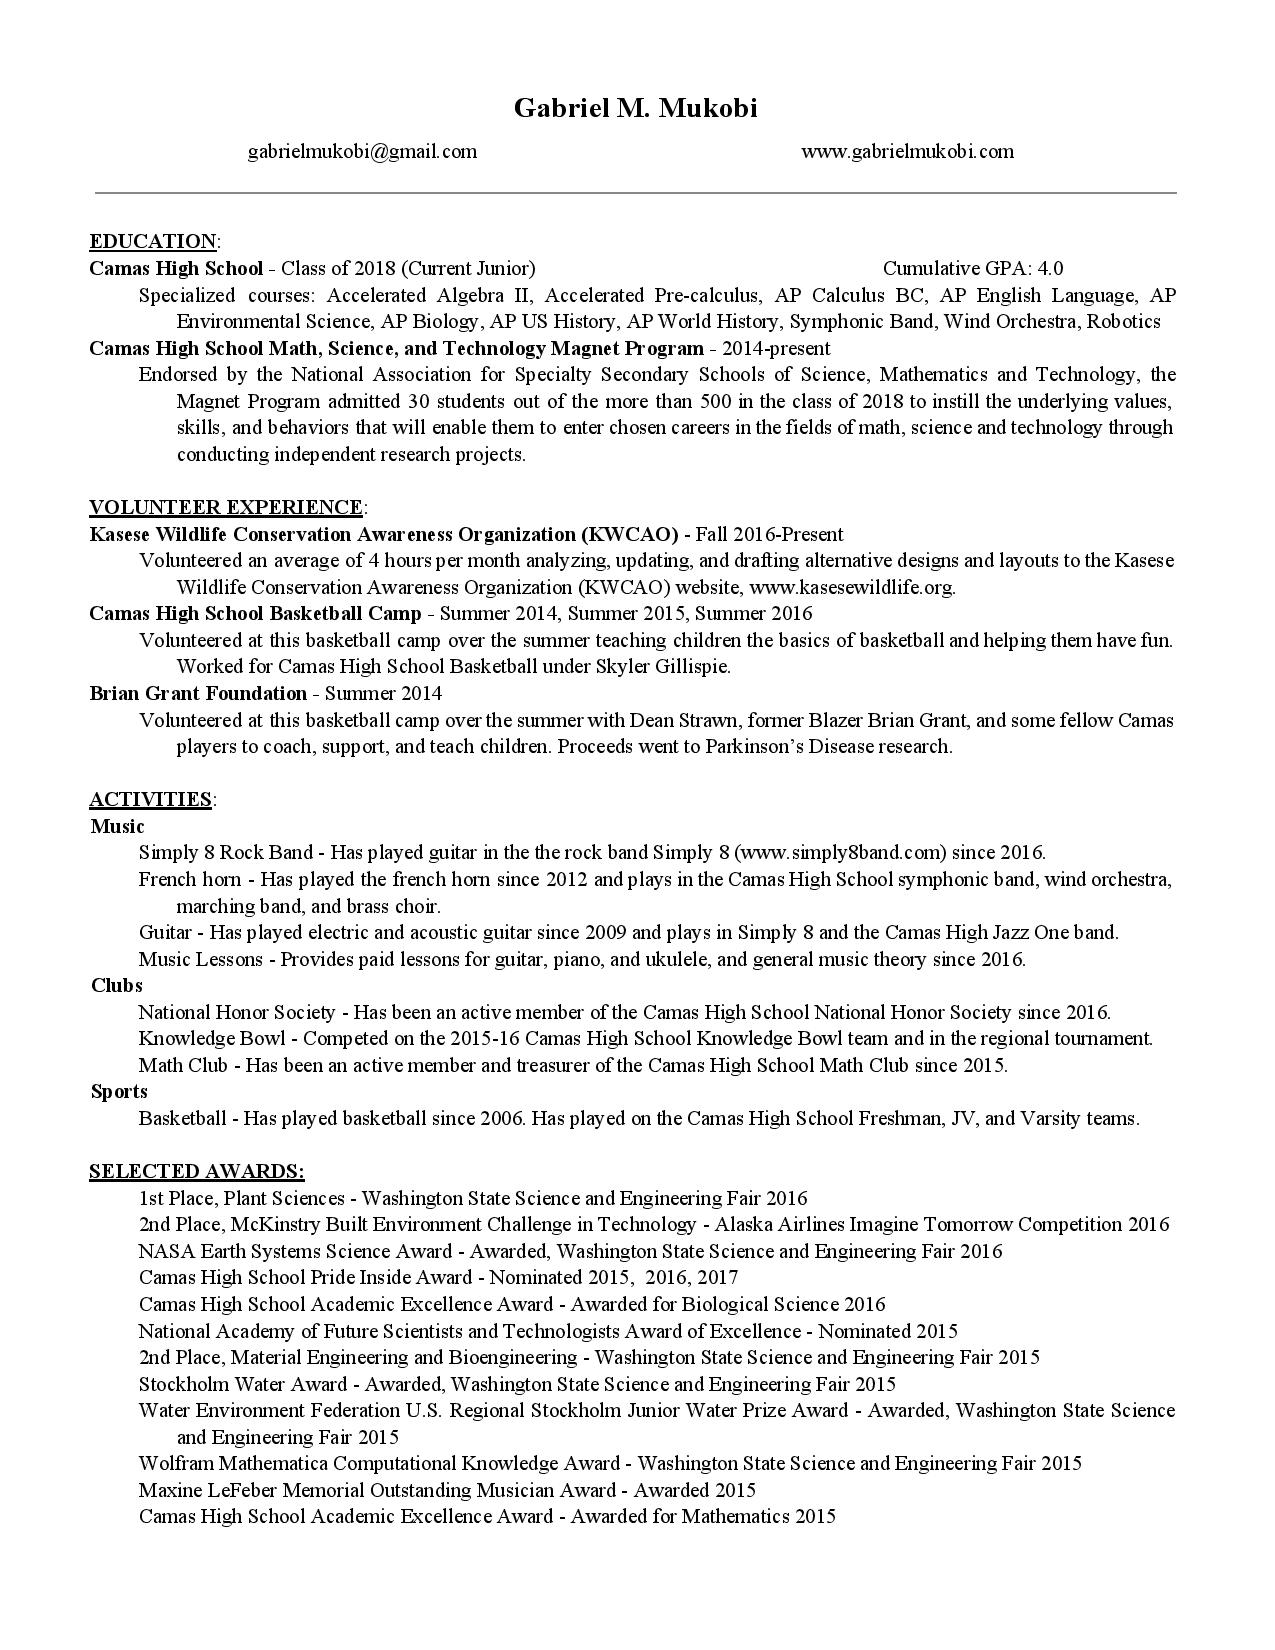
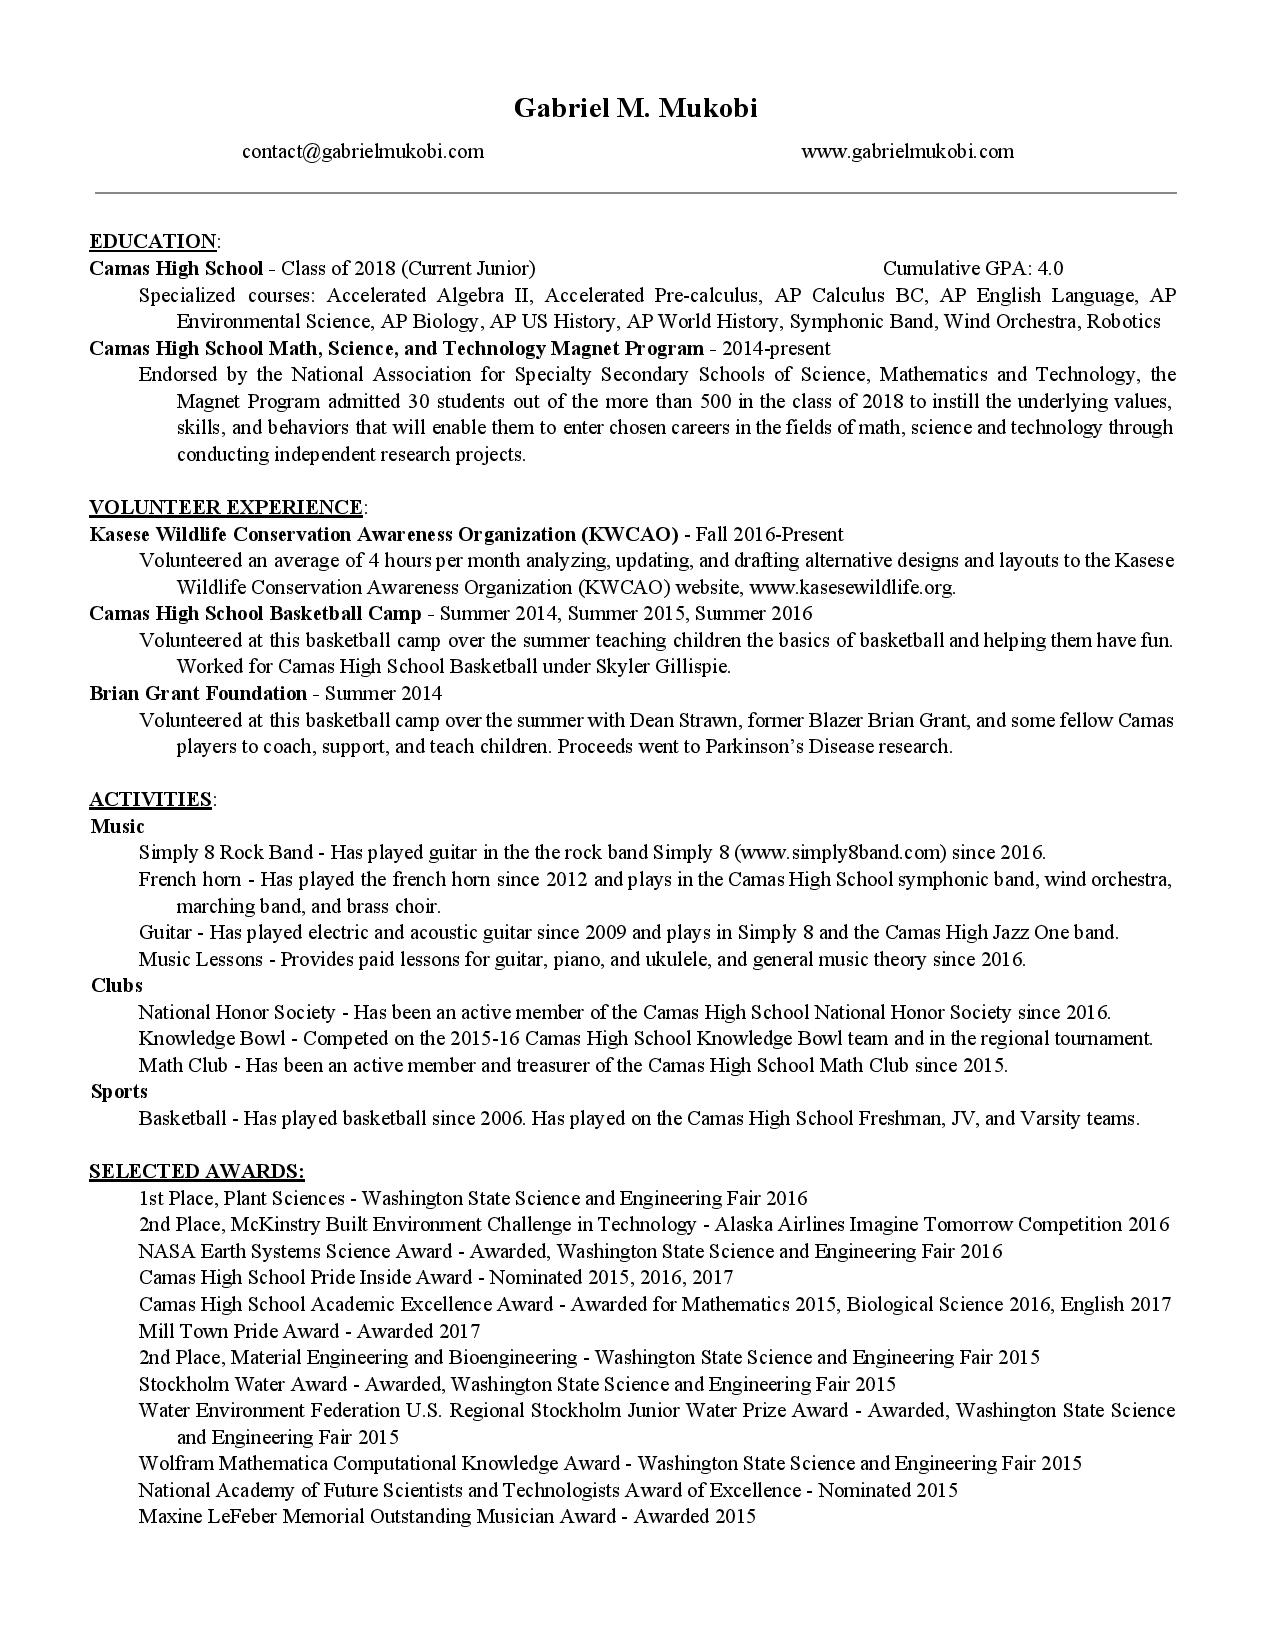
Update contact email, update resume awards

diff --git a/index.html b/index.html
@@ -100,7 +100,7 @@
           <div>
             <p class="about_contact">To contact Gabriel Mukobi, please use one of the following methods. He loves the extra attention and will try to get back to you as soon as possible!</p>
             <div class="accounts flexrow">
-              <div><p>Email: <a href="mailto:gabrielmukobi@gmail.com">gabrielmukobi@gmail.com</a></p></div>
+              <div><p>Email: <a href="mailto:contact@gabrielmukobi.com">contact@gabrielmukobi.com</a></p></div>
               <div><p>LinkedIn: <a href="https://www.linkedin.com/in/gabriel-m-b882a7124/">LinkedIn Profile</a></p></div>
               <div><p>GitHub: <a href="https://github.com/mukobi">GitHub Profile</a></p></div>
             </div>
@@ -113,6 +113,9 @@
         <div class="newest">
           <h3>What's new with the website?</h3>
           <ul>
+            <li>
+              2017-02-20: Added a new forwarded email account, contact@gabrielmukobi.com
+            </li>
             <li>
               2017-02-14: Added the start of a curriculum vitae. More is to written and pictures are to be added very soon!
             </li>
